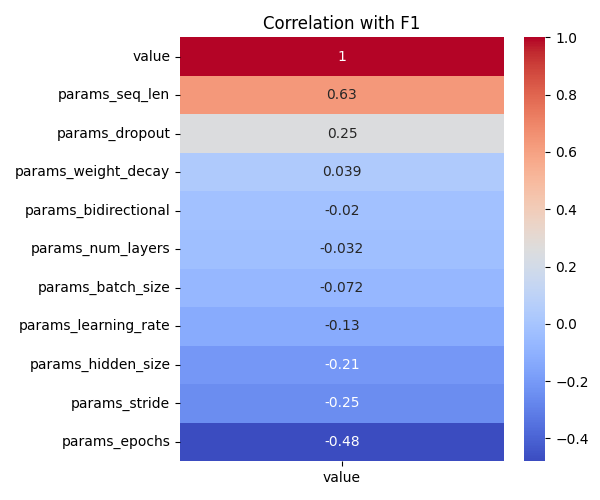
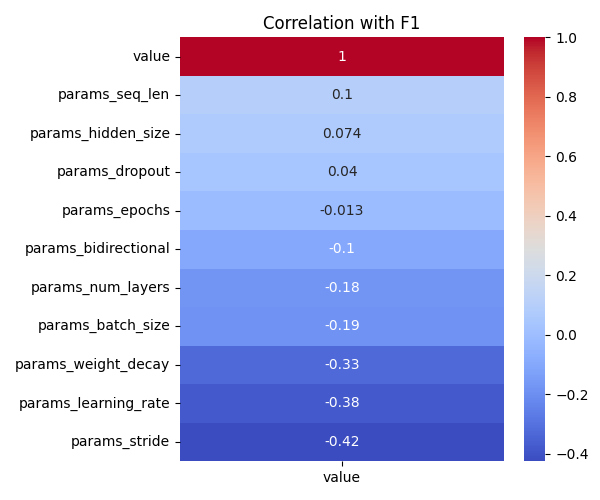
updated the md file with f1 plot

diff --git a/src/helper.py b/src/helper.py
@@ -407,6 +407,8 @@ def write_study_summary_md(study, subject=None, out_dir=REPORT_DIR, top_n=5):
     
     # --- Visualizations ---
     markdown.append("## Visualizations")
+    markdown.append('### F1 Line Plot')
+    markdown.append('![F1 Line Plot](f1_scores_lineplot.png)')
     markdown.append("### Hyperparameter Importance")
     markdown.append("![F1 Importance](f1_importance_barplot.png)")
     markdown.append("")

diff --git a/sleep_wave/reports/study_7012_2025-06-08/optuna_summary_2025-06-08.md b/sleep_wave/reports/study_7012_2025-06-08/optuna_summary_2025-06-08.md
@@ -7,31 +7,31 @@
 ---
 
 ## Best Trial
-- **F1 Score**: 0.3170
-- **Threshold**: 0.5
-- **Accuracy**: 0.2977
+- **F1 Score**: 0.6361
+- **Threshold**: 0.58
+- **Accuracy**: 0.5925
 - **Params**
-  - `hidden_size`: 64
+  - `hidden_size`: 128
   - `num_layers`: 2
-  - `dropout`: 0.36965344602653816
-  - `bidirectional`: True
-  - `learning_rate`: 0.001720021822320989
-  - `stride`: 2
-  - `seq_len`: 128
-  - `epochs`: 8
+  - `dropout`: 0.46113270413265095
+  - `bidirectional`: False
+  - `learning_rate`: 0.00011982944130266843
+  - `stride`: 1
+  - `seq_len`: 64
+  - `epochs`: 9
   - `batch_size`: 64
-  - `weight_decay`: 0.003062273519768889
+  - `weight_decay`: 1.3467657668402778e-05
 
 ---
 
 ## Top 5 Trials
 | Trial | F1 Score | Threshold | Accuracy |
 |-------|----------|-----------|----------|
-| 1 | 0.3170 | 0.5 | 0.2977 |
-| 3 | 0.2487 | 0.5 | 0.2970 |
-| 4 | 0.2156 | 0.5 | 0.2108 |
-| 2 | 0.2099 | 0.5 | 0.2082 |
-| 9 | 0.1779 | 0.5 | 0.2261 |
+| 3 | 0.6361 | 0.58 | 0.5925 |
+| 9 | 0.6204 | 0.45 | 0.5826 |
+| 6 | 0.6015 | 0.51 | 0.5566 |
+| 8 | 0.5976 | 0.43 | 0.5536 |
+| 2 | 0.5971 | 0.47 | 0.5516 |
 
 ---
 
